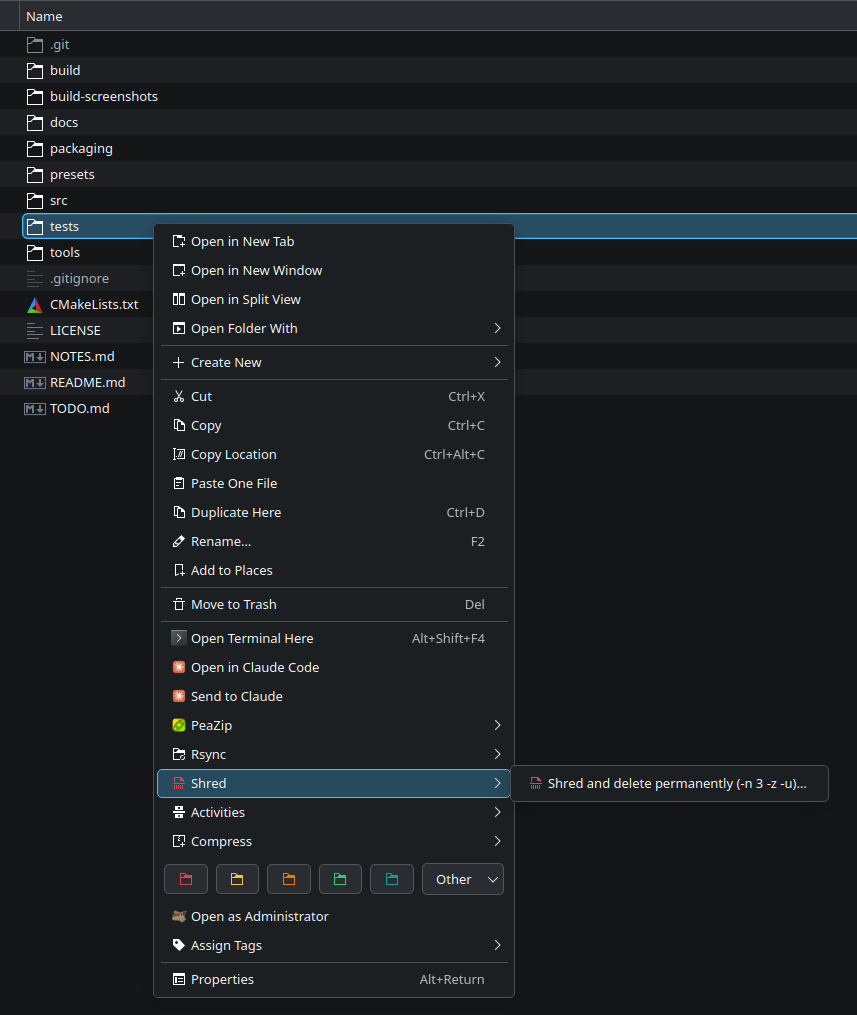
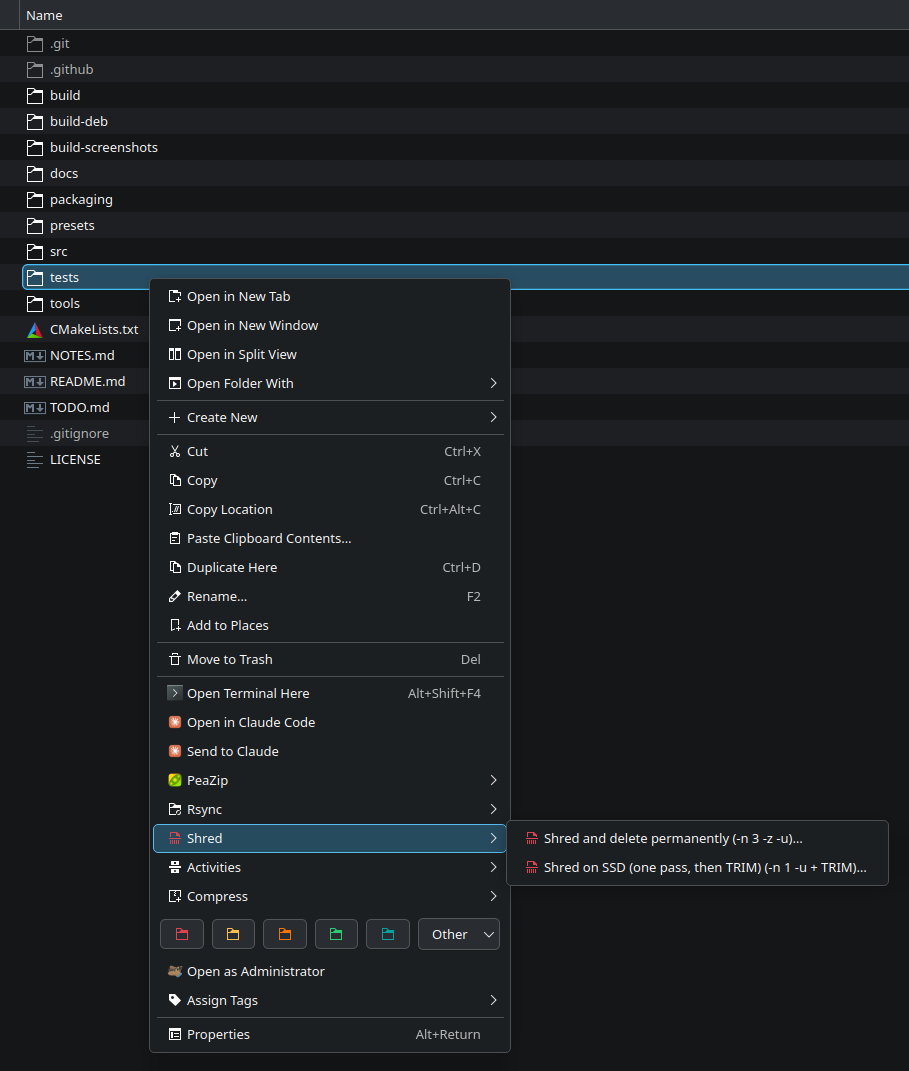
Screenshots: the Dolphin menu with the SSD preset
New screenshots by the author (metadata removed, margins as in the old ones): three entries for a file, two
for a directory. The README lists the "Shred on SSD" entry and describes the images accordingly.

diff --git a/README.md b/README.md
@@ -208,12 +208,13 @@ you can also add your own presets (any `*.json` name, format as below).
 After installation Dolphin shows a **Shred** submenu (left: a file, right: a directory):
 
 <p>
-<img src="docs/screenshots/context-menu-file.png" width="49%" alt="The Shred submenu in Dolphin for a file: two entries">
-<img src="docs/screenshots/context-menu-dir.png" width="49%" alt="The Shred submenu in Dolphin for a directory: one entry">
+<img src="docs/screenshots/context-menu-file.png" width="49%" alt="The Shred submenu in Dolphin for a file: three entries">
+<img src="docs/screenshots/context-menu-dir.png" width="49%" alt="The Shred submenu in Dolphin for a directory: two entries">
 </p>
 
 - **Shred and delete permanently (-n 3 -z -u)…** — files and directories (`--preset shred-delete`),
-- **Overwrite only, keep the file (-n 3 -z)…** — files only (`--preset shred-overwrite`).
+- **Overwrite only, keep the file (-n 3 -z)…** — files only (`--preset shred-overwrite`),
+- **Shred on SSD (one pass, then TRIM) (-n 1 -u + TRIM)…** — files and directories (`--preset shred-ssd`).
 
 Clicking an entry opens Shred GUI with the selected items in the list and the preset loaded —
 nothing happens automatically, you still have to click *Shred* and confirm. Several selected
